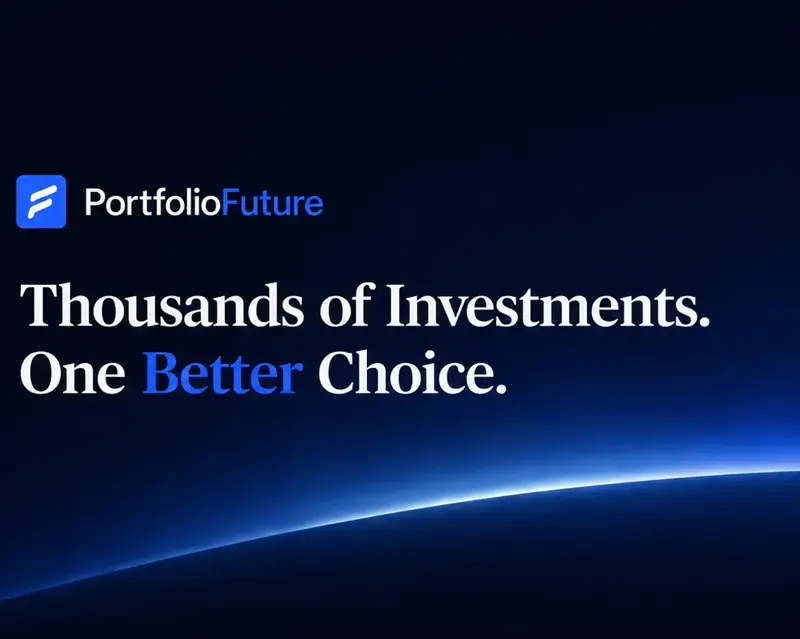
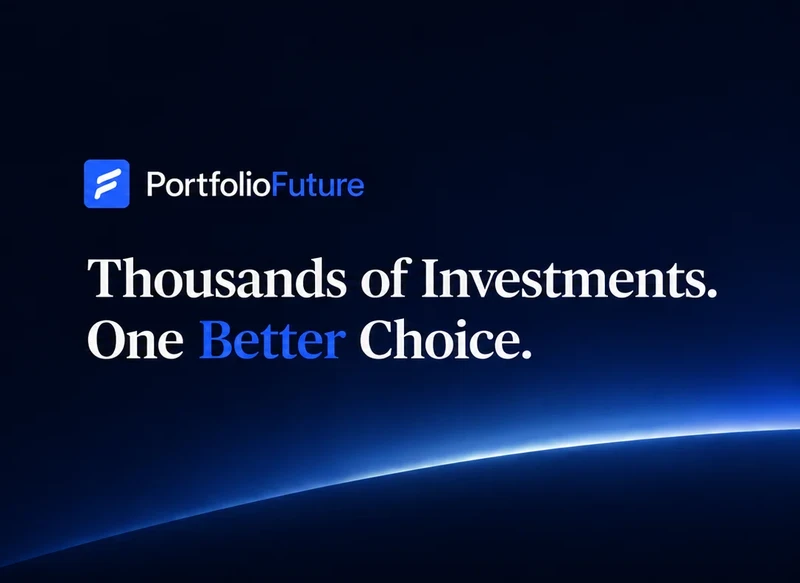
Recrop PortfolioFuture hero visual to perfectly center text content horizontally

Changed region(s): [[0.0, 0.4322, 0.9062, 0.6175], [0.0, 0.741, 0.8125, 0.988], [0.0, 0.247, 0.4688, 0.3705]]

diff --git a/_layouts/home.html b/_layouts/home.html
@@ -40,8 +40,8 @@ layout: default
             <div class="col-lg-6 reveal" style="transition-delay:.1s">
               <a class="portfoliofuture-visual" href="{{ site.portfoliofuture_url }}" target="_blank" rel="noopener noreferrer" aria-label="Visit PortfolioFuture">
                 <picture>
-                  <source media="(max-width: 767px)" srcset="{{ '/img/portfoliofuture-hero-mobile.webp' | relative_url }}" width="800" height="639">
-                  <img src="{{ '/img/portfoliofuture-hero.webp' | relative_url }}" alt="PortfolioFuture — Thousands of Investments. One Better Choice." width="992" height="792" loading="eager">
+                  <source media="(max-width: 767px)" srcset="{{ '/img/portfoliofuture-hero-mobile.webp' | relative_url }}" width="800" height="583">
+                  <img src="{{ '/img/portfoliofuture-hero.webp' | relative_url }}" alt="PortfolioFuture — Thousands of Investments. One Better Choice." width="1087" height="793" loading="eager">
                 </picture>
               </a>
             </div>
